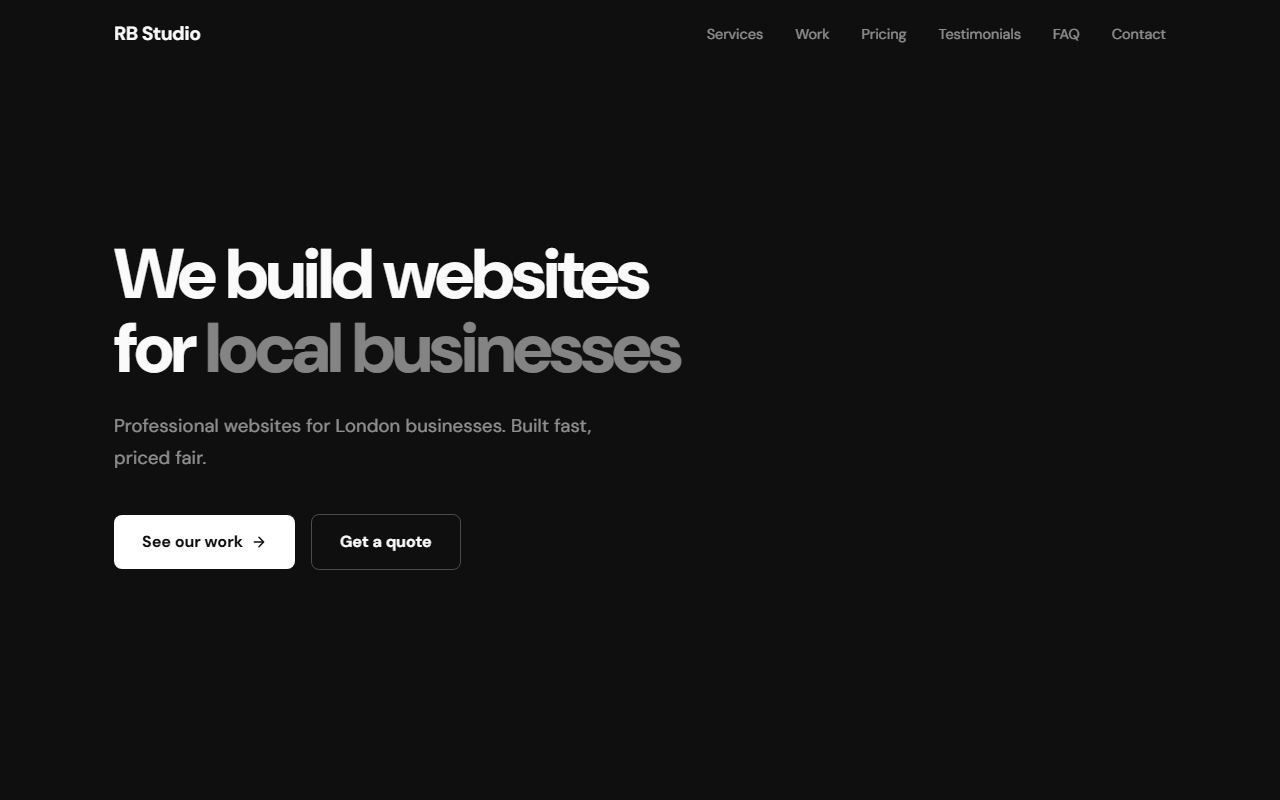
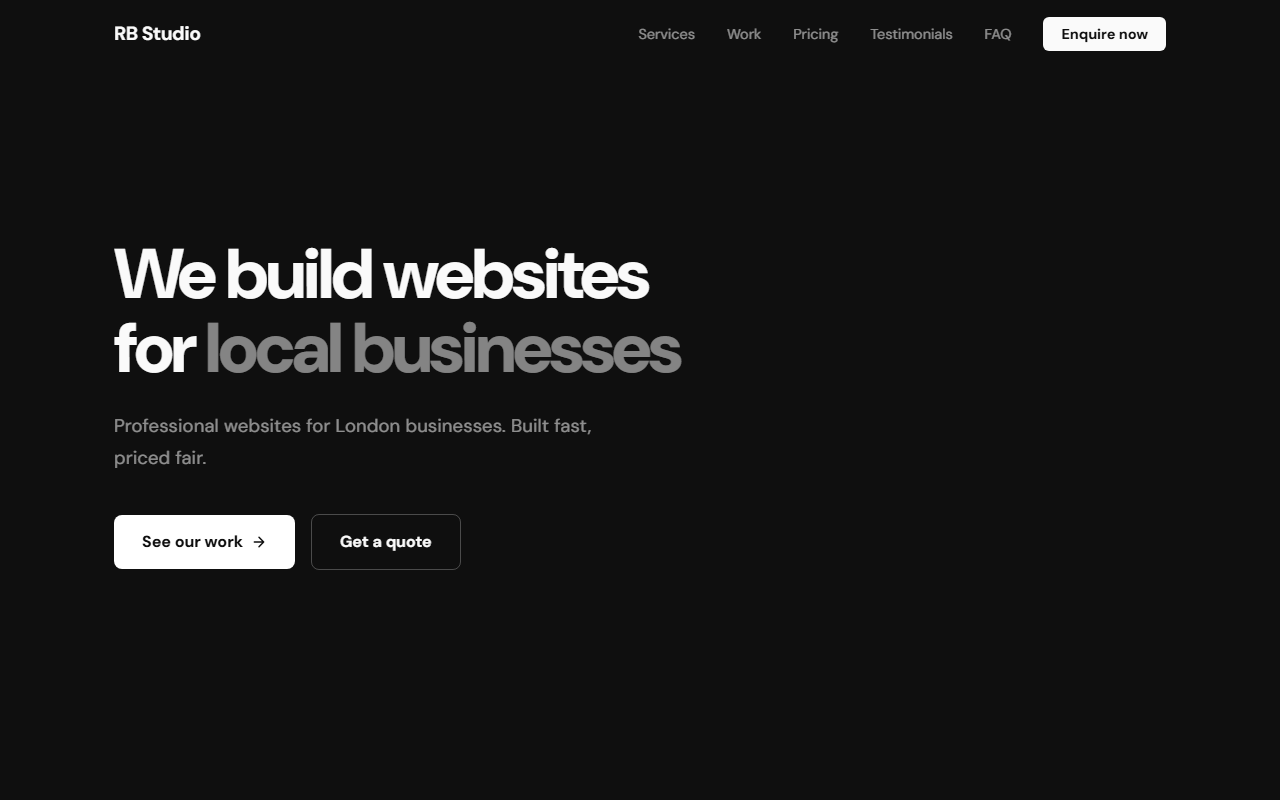
Replace nav Contact link with Enquire now button
Swap the Contact link for a filled Enquire now button in the desktop nav
and the mobile menu. Refresh renders.

Changed region(s): [[0.625, 0.0, 0.9375, 0.0625], [0.5, 0.0312, 0.5938, 0.0625]]

diff --git a/index.html b/index.html
@@ -128,6 +128,20 @@
       color: var(--text);
     }
 
+    .nav-cta {
+      background: var(--text) !important;
+      color: var(--bg) !important;
+      padding: 8px 18px !important;
+      border-radius: 6px;
+      font-weight: 600 !important;
+      transition: opacity 0.2s ease !important;
+    }
+
+    .nav-cta:hover {
+      opacity: 0.85 !important;
+      color: var(--bg) !important;
+    }
+
     .nav-toggle {
       display: none;
       flex-direction: column;
@@ -1148,7 +1162,7 @@
         <li><a href="#pricing">Pricing</a></li>
         <li><a href="#testimonials">Testimonials</a></li>
         <li><a href="#faq">FAQ</a></li>
-        <li><a href="#contact">Contact</a></li>
+        <li><a href="#contact" class="nav-cta">Enquire now</a></li>
       </ul>
       <button class="nav-toggle" id="navToggle" aria-label="Toggle navigation" aria-expanded="false" aria-controls="mobileMenu">
         <span></span>
@@ -1164,7 +1178,7 @@
     <a href="#pricing">Pricing</a>
     <a href="#testimonials">Testimonials</a>
     <a href="#faq">FAQ</a>
-    <a href="#contact">Contact</a>
+    <a href="#contact" class="nav-cta">Enquire now</a>
   </nav>
 
   <main id="main-content">
